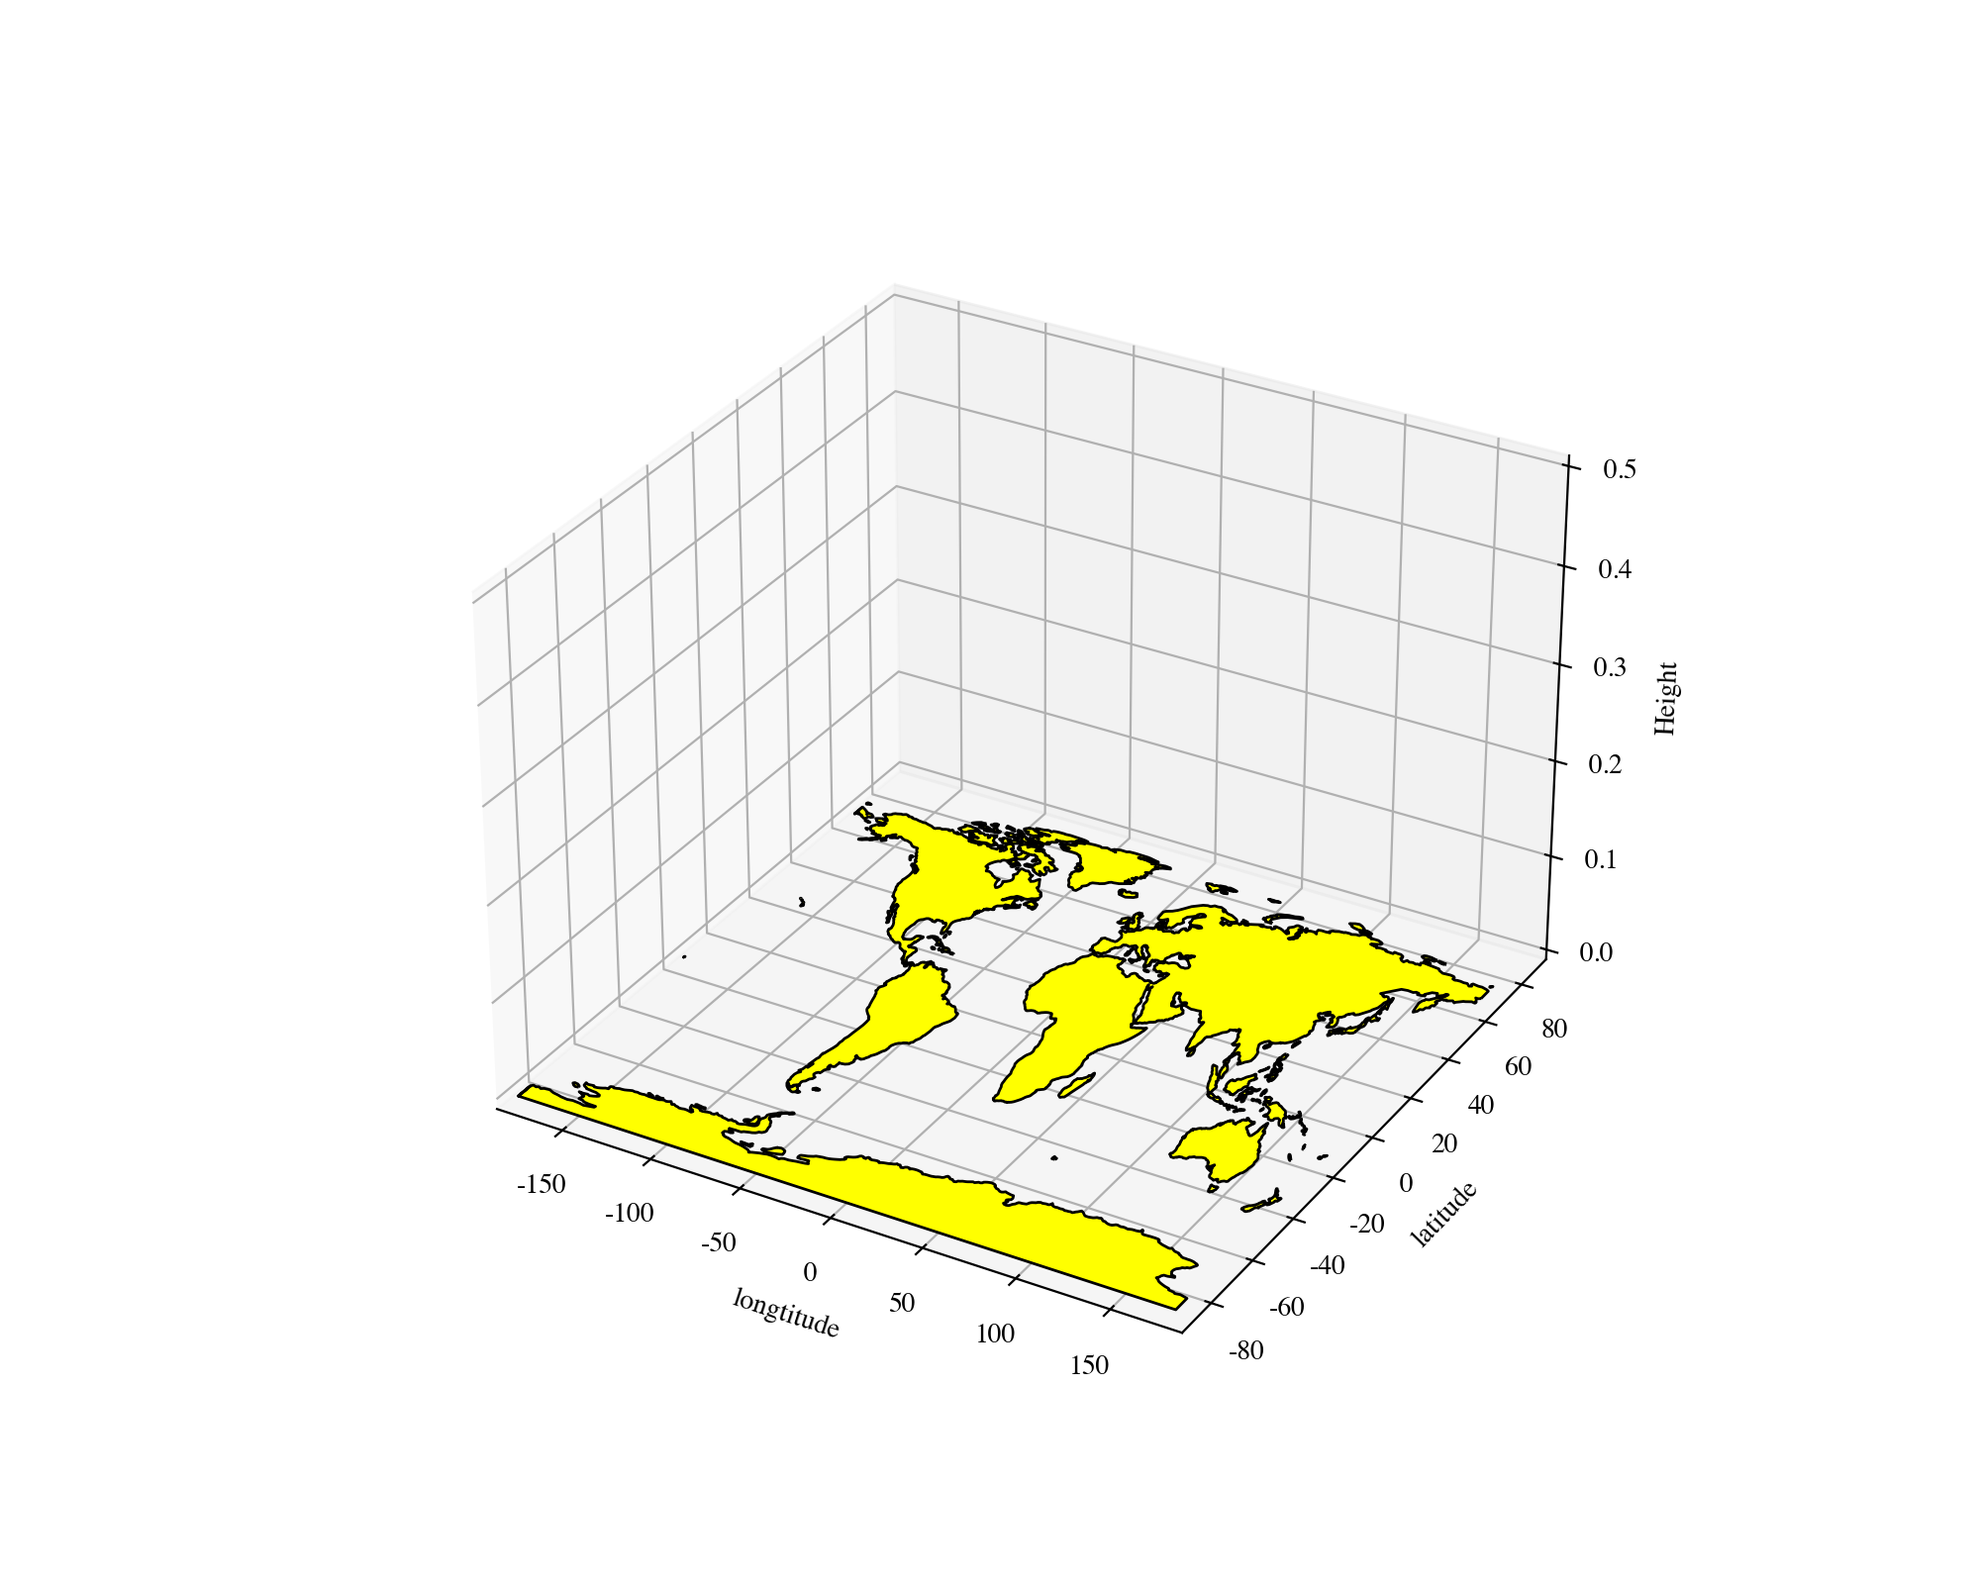
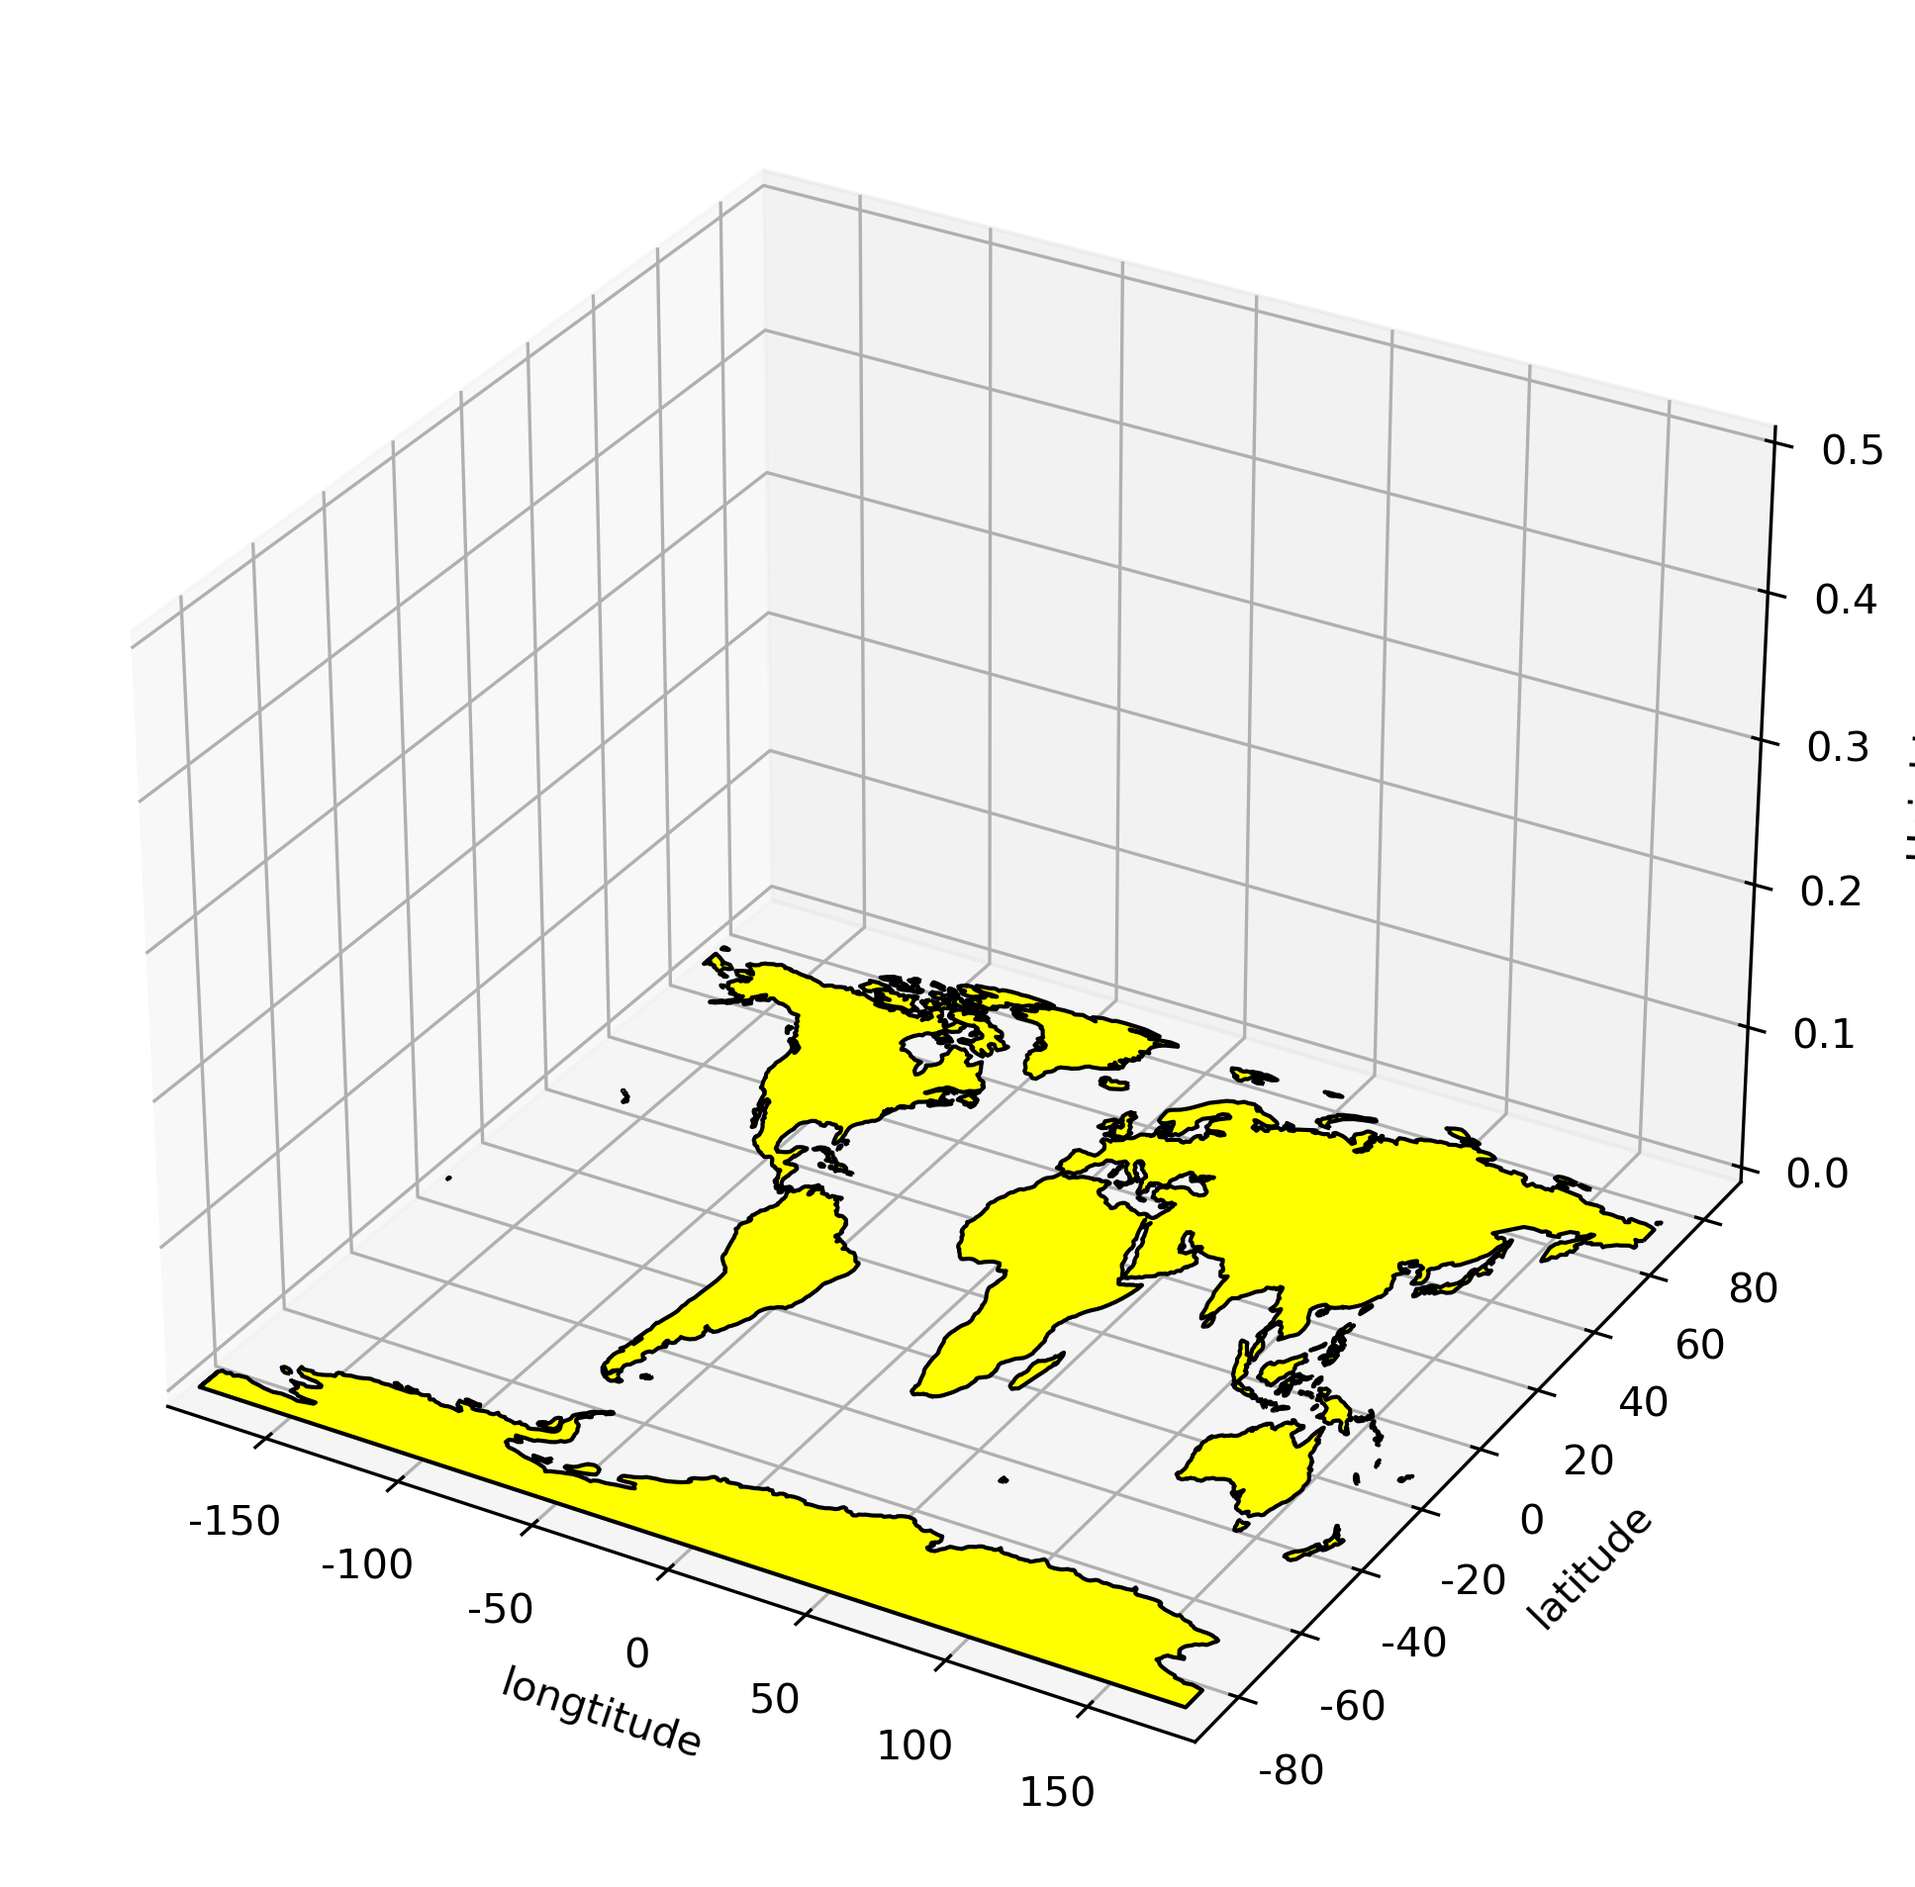
"zoom to region of interest"

diff --git a/test.py b/test.py
@@ -7,13 +7,13 @@ import cartopy.feature
 from cartopy.mpl.patch import geos_to_path
 import cartopy.crs as ccrs
 
-plt.rcParams["font.sans-serif"] = ["Times"]
+plt.rcParams.update({"font.family": "serif", "font.serif": ["Times"]})
 plt.rcParams["axes.unicode_minus"] = False  # 负号
 
 fig = plt.figure(figsize=(10, 8), dpi=200)
 ax = fig.add_subplot(111, projection="3d")
-ax.set_xlim(-180, 180)
-ax.set_ylim(-90, 90)
+ax.set_xlim(90, 160)
+ax.set_ylim(-5, 40)
 ax.set_zlim(0, 0.5)
 ##############################################################
 concat = lambda iterable: list(itertools.chain.from_iterable(iterable))
@@ -29,4 +29,4 @@ ax.add_collection3d(lc)
 ax.set_xlabel("longtitude")
 ax.set_ylabel("latitude")
 ax.set_zlabel("Height")
-plt.savefig("test.png")
+plt.savefig("test2.png", dpi = 300, bbox_inches = "tight", pad_inches = 0.5)
